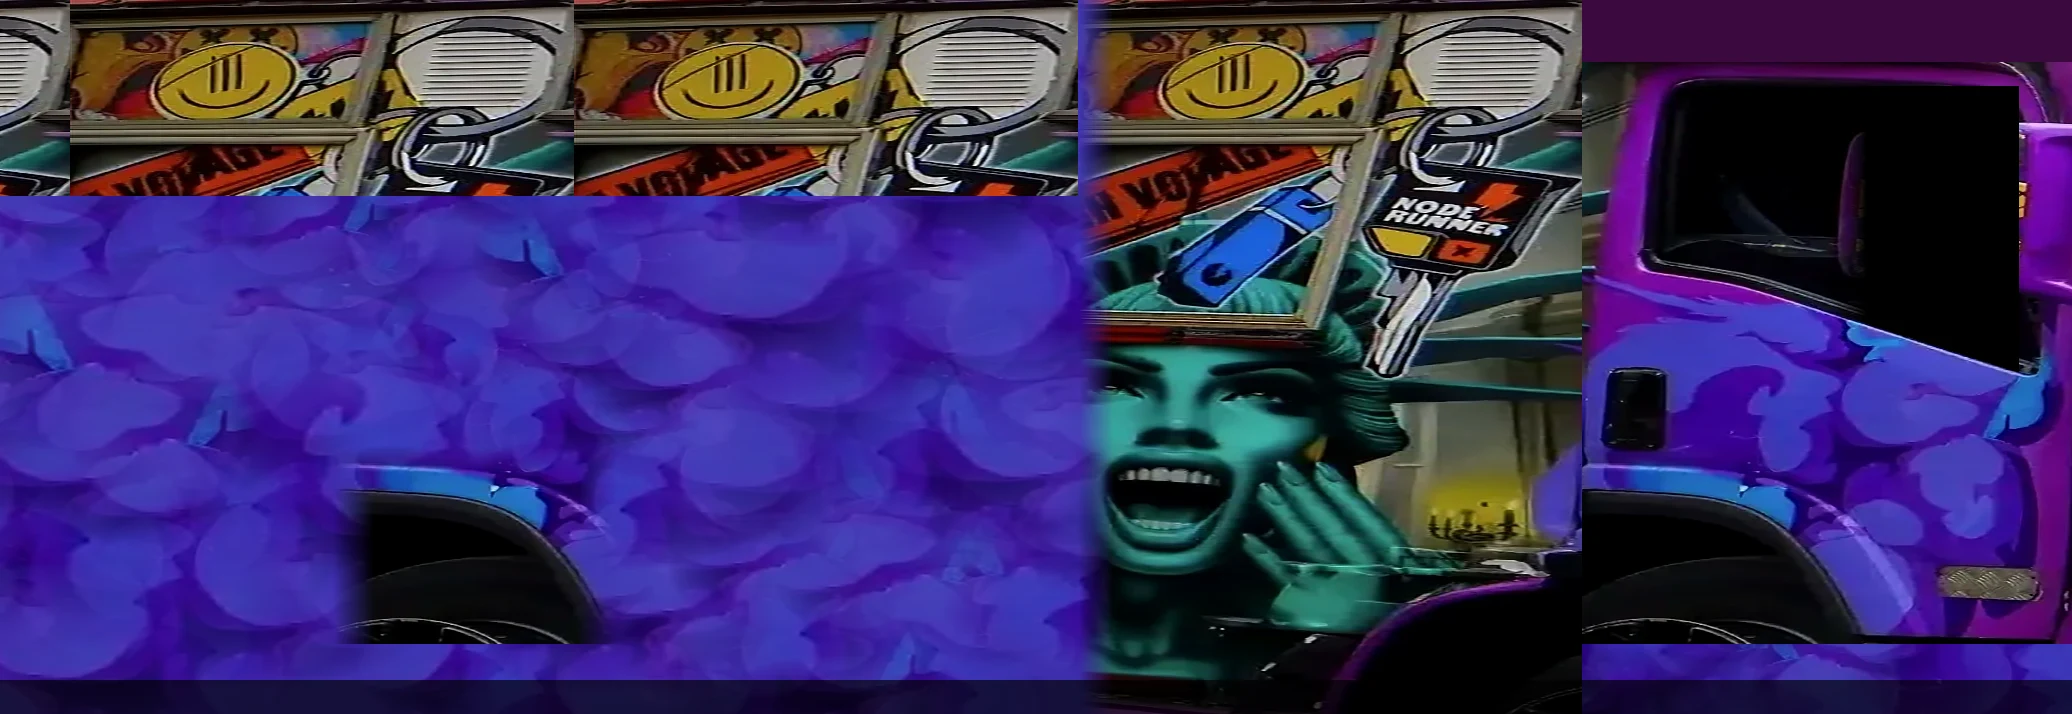
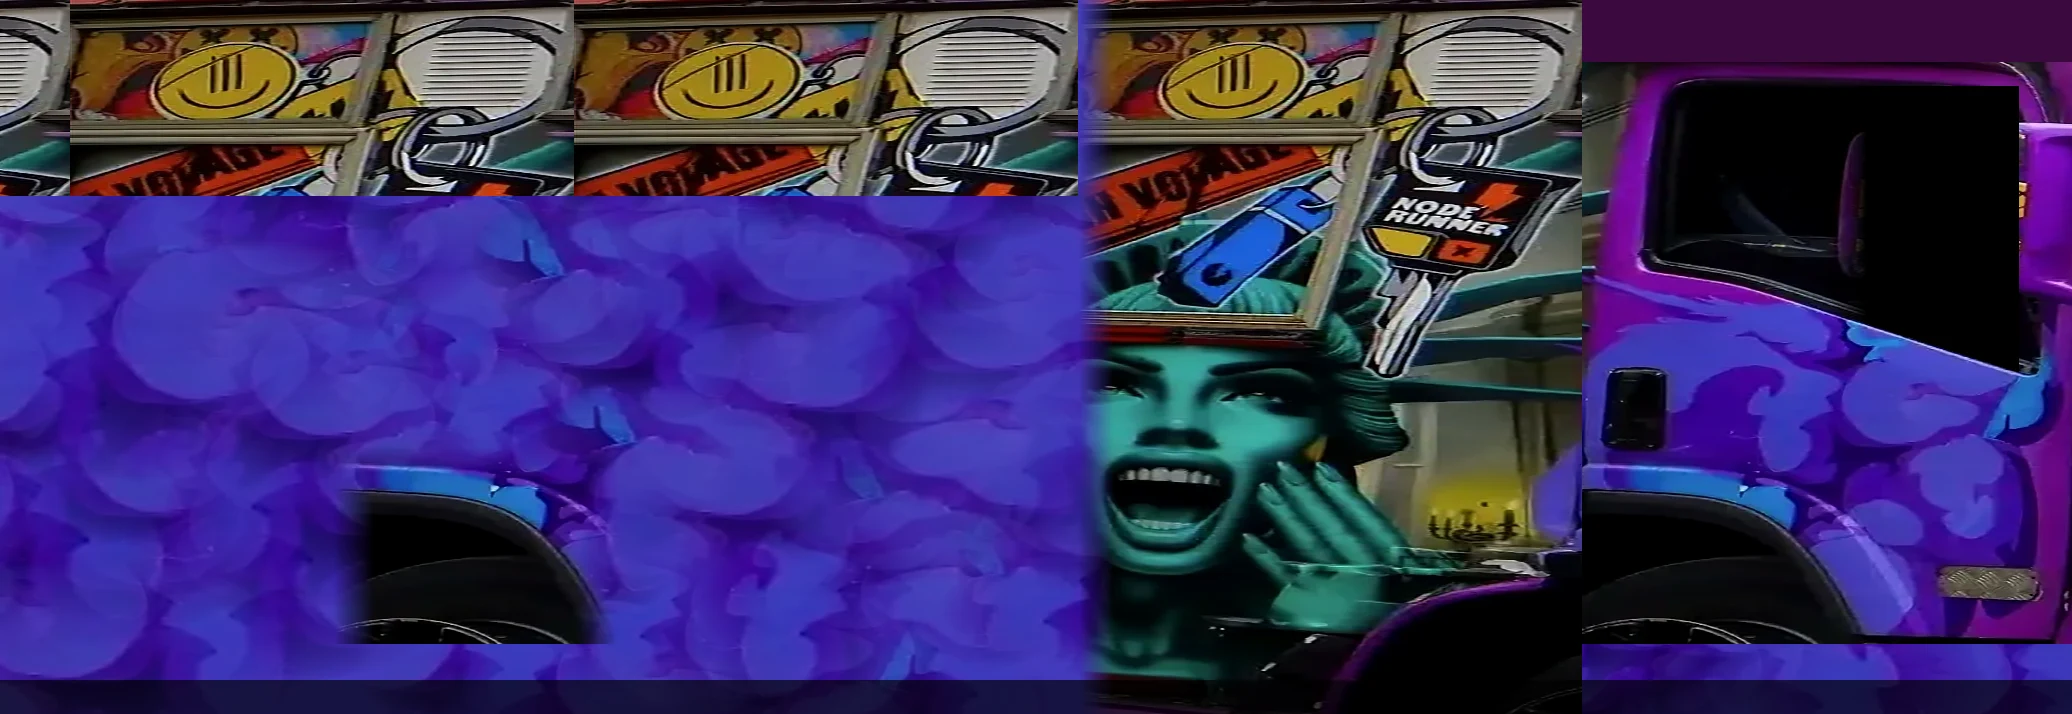
feat(garage): show the body's purple between the extended clouds
Claude-Session: https://claude.ai/code/session_01MzDimkdoG7MdhGFLpecq6a

diff --git a/scripts/build-side-livery.py b/scripts/build-side-livery.py
@@ -92,13 +92,15 @@ def cloud_paint(cab, width, height, seed):
     h, w = cab.shape[:2]
     # Below the window, clear of the door handle and the wheel arch.
     source = cab[int(h * 0.5) : int(h * 0.75), int(w * 0.2) : int(w * 0.95)].astype(np.float32)
-    base = np.median(source.reshape(-1, 3), axis=0)
+    # The body's own purple shows between the clouds; take it from the door,
+    # just below the window sill, where there is no cloud paint.
+    base = np.median(cab[int(h * 0.44) : int(h * 0.49), int(w * 0.15) : int(w * 0.45)].reshape(-1, 3), axis=0)
 
     rng = np.random.default_rng(seed)
     canvas = np.empty((height, width, 3), np.float32)
     canvas[:] = base
     sh, sw = source.shape[:2]
-    for _ in range(int(width * height / 5000)):
+    for _ in range(int(width * height / 7000)):
         ch, cw = int(rng.uniform(0.55, 0.95) * sh), int(rng.uniform(0.35, 0.7) * sw)
         y, x = rng.integers(0, sh - ch + 1), rng.integers(0, sw - cw + 1)
         stamp = source[y : y + ch, x : x + cw]
